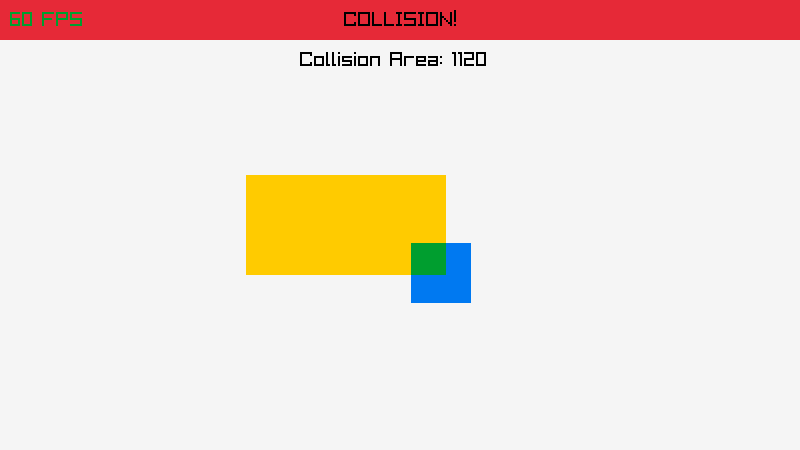
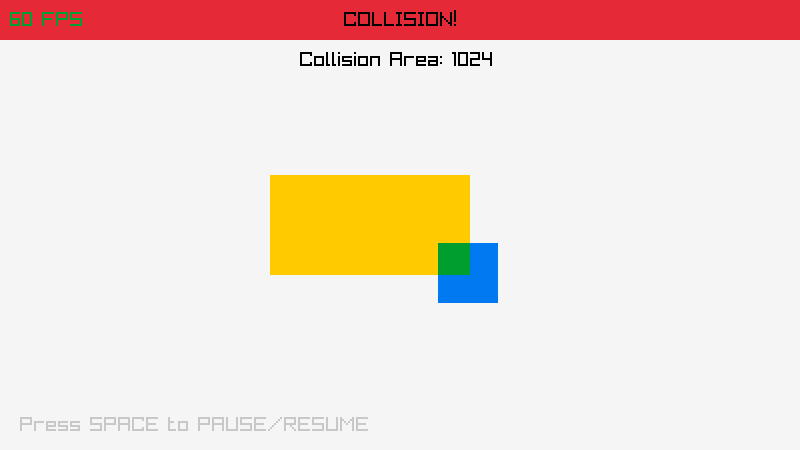
Fix examples/shapes/shapes_collision_area.c help instructions (#3279)

diff --git a/examples/shapes/shapes_collision_area.c b/examples/shapes/shapes_collision_area.c
@@ -99,6 +99,9 @@ int main(void)
                 DrawText(TextFormat("Collision Area: %i", (int)boxCollision.width*(int)boxCollision.height), GetScreenWidth()/2 - 100, screenUpperLimit + 10, 20, BLACK);
             }
 
+            // Draw help instructions
+            DrawText("Press SPACE to PAUSE/RESUME", 20, screenHeight - 35, 20, LIGHTGRAY);
+
             DrawFPS(10, 10);
 
         EndDrawing();
